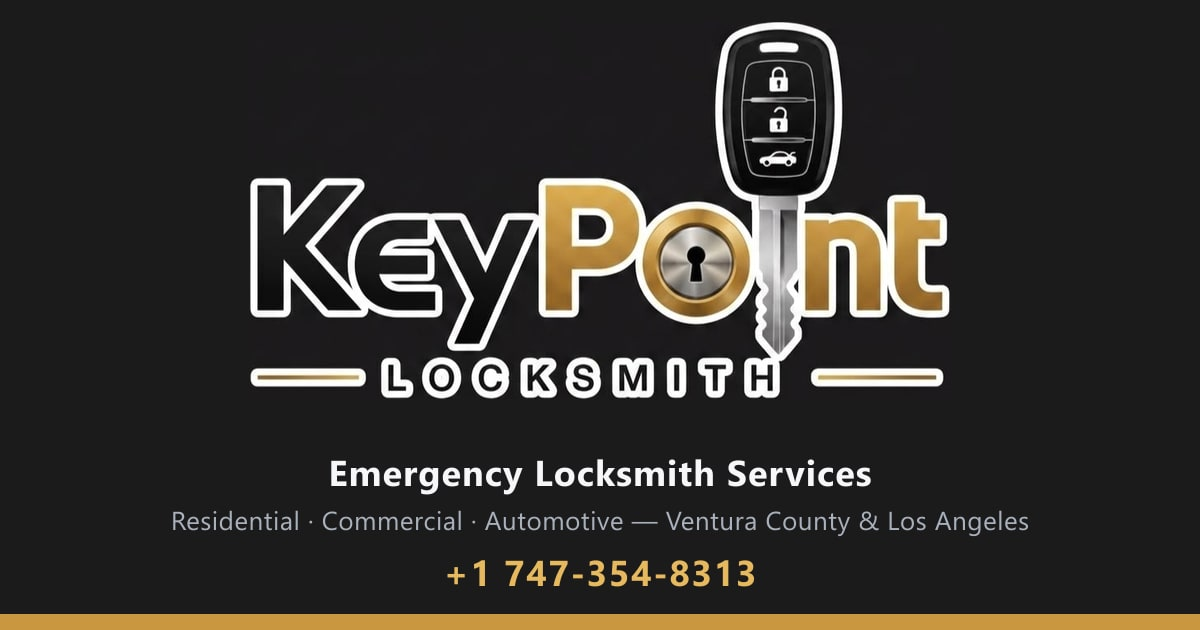
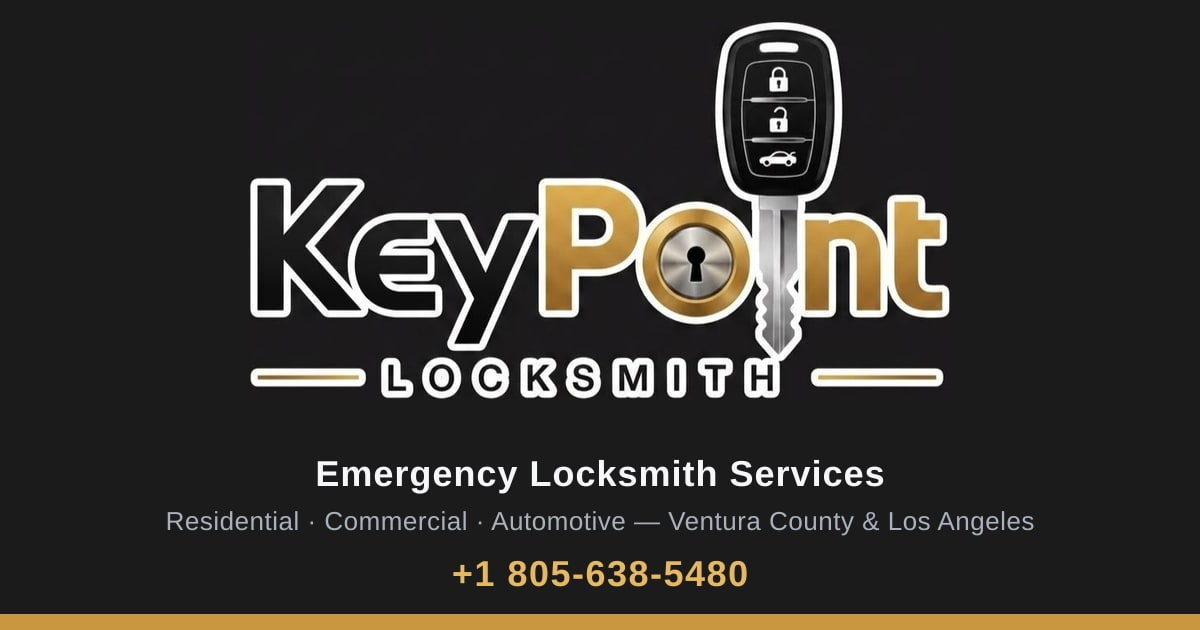
Update the phone and WhatsApp number to (805) 638-5480 (#6)
Covers the single source of truth in site.ts (used for tel:/wa.me
links, structured data and the SEO description) and the phone baked
into the generated Open Graph social card, regenerated via
npm run assets.

Claude-Session: https://claude.ai/code/session_01TEZRk6fQA9CncuZFK8PgwR

Changed region(s): [[0.2467, 0.7238, 0.74, 0.7841], [0.1233, 0.8143, 0.8633, 0.8444], [0.37, 0.8746, 0.6475, 0.9349]]

diff --git a/src/data/site.ts b/src/data/site.ts
@@ -12,11 +12,11 @@ export const site = {
   owner: 'Lidor Menashe',
 
   /** Human-readable form, used everywhere the number is displayed. */
-  phoneDisplay: '+1 747-354-8313',
+  phoneDisplay: '+1 805-638-5480',
   /** E.164 — used for tel: links and structured data. */
-  phoneE164: '+17473548313',
+  phoneE164: '+18056385480',
   /** Digits only, as required by wa.me. */
-  whatsappNumber: '17473548313',
+  whatsappNumber: '18056385480',
 
   email: 'MenasheLidor@gmail.com',
 
@@ -43,7 +43,7 @@ export const site = {
   seo: {
     title: 'KeyPoint Locksmith | Emergency Locksmith — Ventura County & Los Angeles',
     description:
-      'KeyPoint Locksmith provides residential, commercial and automotive locksmith services across Ventura County, the San Fernando Valley and the greater Los Angeles area. Call or WhatsApp +1 747-354-8313.',
+      'KeyPoint Locksmith provides residential, commercial and automotive locksmith services across Ventura County, the San Fernando Valley and the greater Los Angeles area. Call or WhatsApp +1 805-638-5480.',
   },
 } as const;
 
